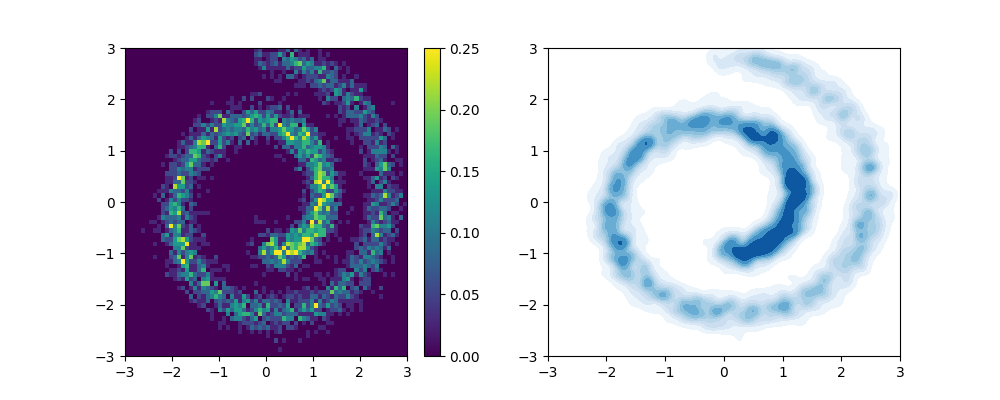
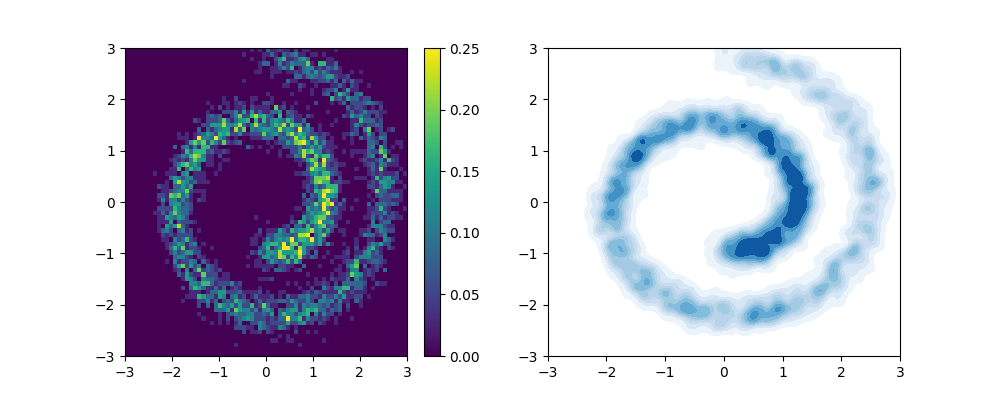
generic commit

diff --git a/scripts/transport/kvae_flow.py b/scripts/transport/kvae_flow.py
@@ -721,7 +721,7 @@ def run():
     batch_size = 2000
     two_d_exp(ref_gen, sample_swiss_roll, N=N, n_iter=49, plt_range=[[-3, 3], [-3, 3]], process_funcs=[],
               skip_idx=1, slice_vals=[0], slice_range=[-3,3], exp_name='exp', n_transports=60, vmax=.25,
-              batch_size = batch_size, reg_lambda= 1e-5, N_plot = 5000)
+              batch_size = batch_size, reg_lambda= 1e-5, N_plot = 5000, final_eps=1)
 
     #vl_exp(batch_size=4500, n_transports=125)
 
